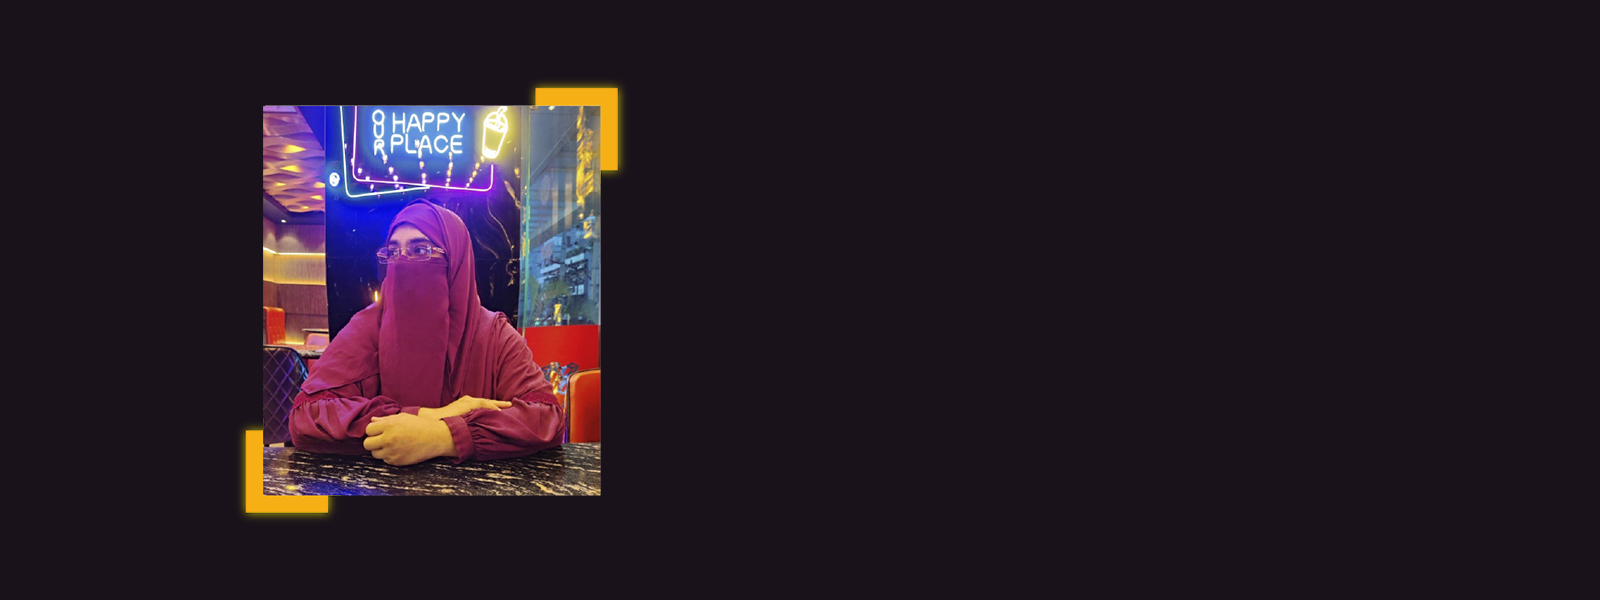
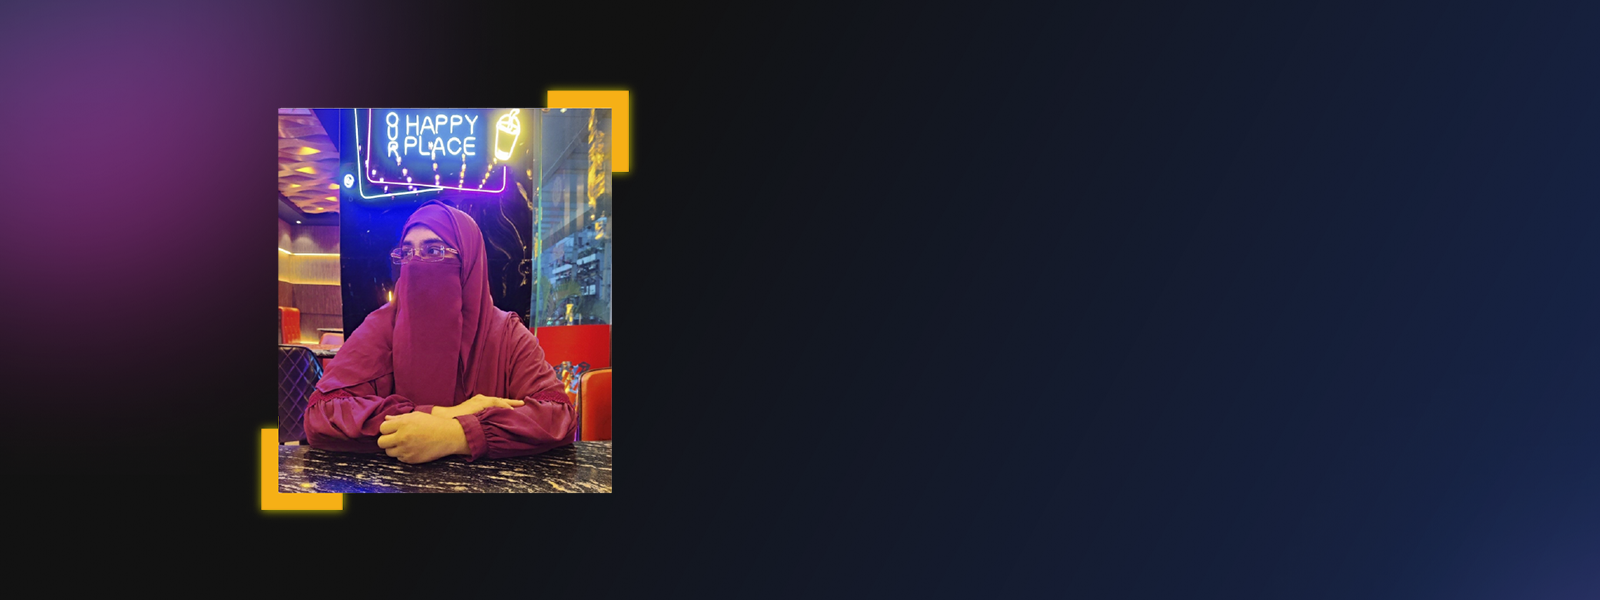
change aboutMe style

diff --git a/src/components/AboutMe/AboutMe.jsx b/src/components/AboutMe/AboutMe.jsx
@@ -12,7 +12,7 @@ const AboutMe = () => {
 
     return (
         <div style={bgImg} id="aboutme">
-            <div className="ml-[45%] pl-12 flex items-center h-[500px] bg-white bg-opacity-25 text-white text-sm" >
+            <div className="pl-[45%] flex items-center h-[500px] bg-white bg-opacity-20 text-white text-sm" >
                 <div className="w-[650px]">
                     < h1 className="text-4xl md:text-5xl font-extrabold text-white pb-5" >ABOUT<span span className="text-orange-500" > ME</span ></h1 >
                     <p className="mb-3">👋 Hello there! I&apos;am a passionate and detail-oriented web developer.</p>
